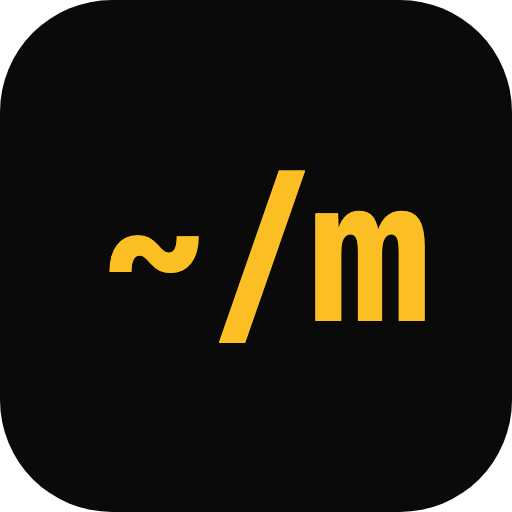
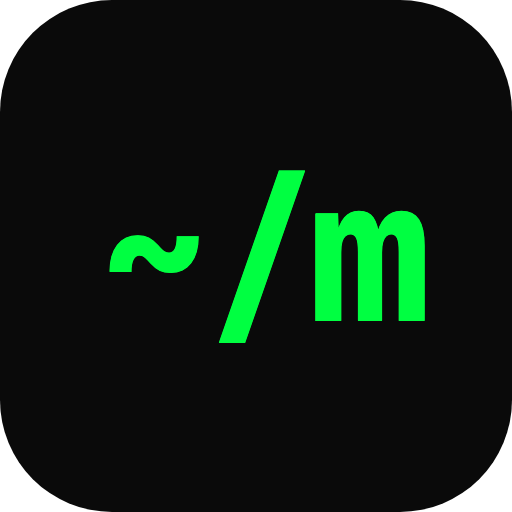
Switch accent to Matrix green and colour headings with it

Changed region(s): [[0.4062, 0.3125, 0.8438, 0.6875], [0.1875, 0.4375, 0.4062, 0.5312]]

diff --git a/tests/e2e/layout.spec.ts b/tests/e2e/layout.spec.ts
@@ -94,10 +94,10 @@ test.describe('on a 360px phone', () => {
 
 test.describe('accent colour', () => {
   for (const [scheme, rgb] of [
-    ['dark', 'rgb(251, 191, 36)'],
-    ['light', 'rgb(180, 83, 9)'],
+    ['dark', 'rgb(0, 255, 65)'],
+    ['light', 'rgb(0, 122, 14)'],
   ] as const) {
-    test(`is amber in ${scheme} mode`, async ({ browser }) => {
+    test(`is Matrix green in ${scheme} mode`, async ({ browser }) => {
       const page = await browser.newPage({ colorScheme: scheme });
       await page.goto('/');
       const title = page.getByText(
@@ -107,6 +107,27 @@ test.describe('accent colour', () => {
         },
       );
       await expect(title).toHaveCSS('color', rgb);
+      // Headings use the accent too.
+      await expect(page.getByRole('heading', { level: 1 })).toHaveCSS(
+        'color',
+        rgb,
+      );
+      await expect(
+        page.getByRole('heading', { level: 2, name: 'Experience' }),
+      ).toHaveCSS('color', rgb);
+      await expect(
+        page.getByRole('heading', { level: 3, name: 'tawk.to' }),
+      ).toHaveCSS('color', rgb);
+      await page.goto('/projects/resist-store');
+      await expect(
+        page.getByRole('heading', { level: 2, name: 'Context' }),
+      ).toHaveCSS('color', rgb);
+      // The CV stays plain black-and-white for printing and ATS parsing.
+      await page.goto('/cv');
+      await expect(page.getByRole('heading', { level: 1 })).not.toHaveCSS(
+        'color',
+        rgb,
+      );
       await page.close();
     });
   }

diff --git a/app/projects/[slug]/page.tsx b/app/projects/[slug]/page.tsx
@@ -47,7 +47,7 @@ export default async function ProjectPage({ params }: Props) {
       </Link>
 
       <div className="mt-8 grid gap-10 lg:grid-cols-[minmax(0,1fr)_200px]">
-        <article className="prose prose-neutral dark:not-print:prose-invert prose-headings:font-mono prose-a:text-accent max-w-[70ch] min-w-0">
+        <article className="prose prose-neutral dark:not-print:prose-invert prose-headings:font-mono prose-headings:text-accent prose-a:text-accent max-w-[70ch] min-w-0">
           <p className="not-prose text-muted font-mono text-xs">
             {projectBadge(project.type)}
           </p>

diff --git a/components/experience-timeline.tsx b/components/experience-timeline.tsx
@@ -31,7 +31,9 @@ export function ExperienceTimeline({ companies }: { companies: Company[] }) {
               aria-hidden="true"
               className="bg-accent absolute top-2 -left-[29px] h-2.5 w-2.5 rounded-full"
             />
-            <h3 className="font-mono text-lg font-semibold">{company.name}</h3>
+            <h3 className="text-accent font-mono text-lg font-semibold">
+              {company.name}
+            </h3>
             <p className="text-muted font-mono text-xs">
               {company.location}
               {company.url && (

diff --git a/components/project-card.tsx b/components/project-card.tsx
@@ -27,7 +27,7 @@ export function ProjectCard({ project }: { project: Project }) {
         <span className="text-accent">{projectBadge(project.type)}</span>
         <span className="text-muted">{project.year}</span>
       </div>
-      <h3 className="group-hover:text-accent mt-3 font-mono font-semibold transition-colors">
+      <h3 className="text-accent mt-3 font-mono font-semibold underline-offset-4 group-hover:underline">
         {project.title}
       </h3>
       <p className="text-muted mt-2 flex-1 text-sm">{project.summary}</p>

diff --git a/app/not-found.tsx b/app/not-found.tsx
@@ -7,7 +7,7 @@ export default function NotFound() {
       <p className="text-muted text-sm">
         <span className="text-accent">~/marc</span> $ <MissingPath />
       </p>
-      <h1 className="mt-4 text-2xl font-semibold">
+      <h1 className="text-accent mt-4 text-2xl font-semibold">
         command not found: <MissingPath />
       </h1>
       <p className="text-muted mt-6 text-sm">

diff --git a/components/hero.tsx b/components/hero.tsx
@@ -10,7 +10,7 @@ export function Hero() {
           ▍
         </span>
       </p>
-      <h1 className="mt-4 font-mono text-4xl font-bold tracking-tight sm:text-5xl">
+      <h1 className="text-accent mt-4 font-mono text-4xl font-bold tracking-tight sm:text-5xl">
         {profile.name}
       </h1>
       <p className="text-accent mt-3 font-mono text-lg">{profile.title}</p>

diff --git a/app/opengraph-image.tsx b/app/opengraph-image.tsx
@@ -19,7 +19,7 @@ export default function OpengraphImage() {
         color: '#e7e5e4',
       }}
     >
-      <div style={{ fontSize: 32, color: '#fbbf24' }}>~/marc $ whoami</div>
+      <div style={{ fontSize: 32, color: '#00ff41' }}>~/marc $ whoami</div>
       <div style={{ fontSize: 76, fontWeight: 700, marginTop: 24 }}>
         {profile.name}
       </div>

diff --git a/app/projects/[slug]/opengraph-image.tsx b/app/projects/[slug]/opengraph-image.tsx
@@ -34,7 +34,7 @@ export default async function ProjectOpengraphImage({
         color: '#e7e5e4',
       }}
     >
-      <div style={{ fontSize: 28, color: '#fbbf24' }}>
+      <div style={{ fontSize: 28, color: '#00ff41' }}>
         {`~/marc/projects $ cat ${slug}.mdx`}
       </div>
       <div style={{ display: 'flex', flexDirection: 'column' }}>

diff --git a/app/globals.css b/app/globals.css
@@ -9,7 +9,7 @@
   --muted: #57534e;
   --border: #e7e5e4;
   --surface: #f5f5f4;
-  --accent: #b45309;
+  --accent: #007a0e;
   color-scheme: light;
 }
 
@@ -19,7 +19,7 @@
   --muted: #a8a29e;
   --border: #262626;
   --surface: #141414;
-  --accent: #fbbf24;
+  --accent: #00ff41;
   color-scheme: dark;
 }
 

diff --git a/components/section.tsx b/components/section.tsx
@@ -19,7 +19,7 @@ export function Section({ id, command, title, children }: Props) {
       </p>
       <h2
         id={`${id}-heading`}
-        className="mt-2 font-mono text-2xl font-semibold"
+        className="text-accent mt-2 font-mono text-2xl font-semibold"
       >
         {title}
       </h2>

diff --git a/docs/superpowers/specs/2026-11-08-portfolio-site-design.md b/docs/superpowers/specs/2026-11-08-portfolio-site-design.md
@@ -27,7 +27,7 @@ A personal site that serves two purposes:
 | CV | Generated from site data at `/cv`; "Download PDF" via browser print |
 | Content storage | Typed TS data files + MDX for case studies |
 | Visual style | Developer/terminal-flavoured, tasteful — not a gimmick terminal |
-| Accent colour | Amber (changed from terminal green on 2026-11-08) |
+| Accent colour | Matrix green; headings use it too (amber was tried and reverted on 2026-11-08) |
 | Contact | `mailto:` + copy-email button + LinkedIn + GitHub. No form. |
 | Structure | Single-scroll home + `/projects/[slug]` + `/cv` |
 | Hosting | Vercel (free tier) |
@@ -145,7 +145,7 @@ Terminal-themed: `command not found: <path>` with link home.
 ## 6. Visual design
 
 - Dark-first design. First visit follows the OS colour-scheme preference; the toggle switches dark/light and the choice is persisted
-- Near-black background, off-white text, single **amber** accent (`#fbbf24`); light mode uses a darker amber (`#b45309`) that passes WCAG AA contrast
+- Near-black background, off-white text, single **Matrix-green** accent (`#00ff41`), also used for headings outside `/cv`; light mode uses a deep Matrix green (`#007a0e`) that passes WCAG AA contrast
 - Monospace for headings, labels, tags, prompts; sans for body copy
 - Motion: blinking hero cursor, subtle fade/slide-in on scroll; all disabled under `prefers-reduced-motion`
 - Responsive from 360px up; no horizontal scroll
@@ -153,7 +153,7 @@ Terminal-themed: `command not found: <path>` with link home.
 ## 7. SEO & sharing
 
 - Per-page `metadata` (title, description, canonical)
-- Open Graph image generated with `next/og` (name, title, amber accent) for home and each case study
+- Open Graph image generated with `next/og` (name, title, Matrix-green accent) for home and each case study
 - `sitemap.ts` and `robots.ts`
 - Vercel Analytics (enabled, no cookies)
 
